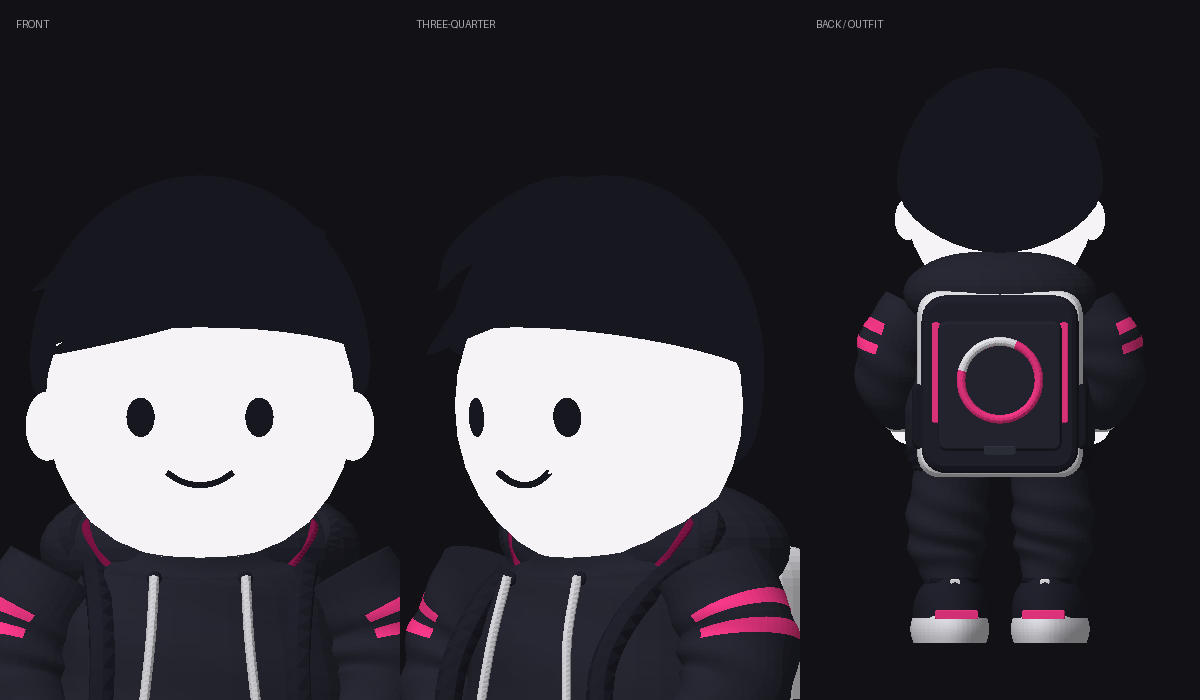
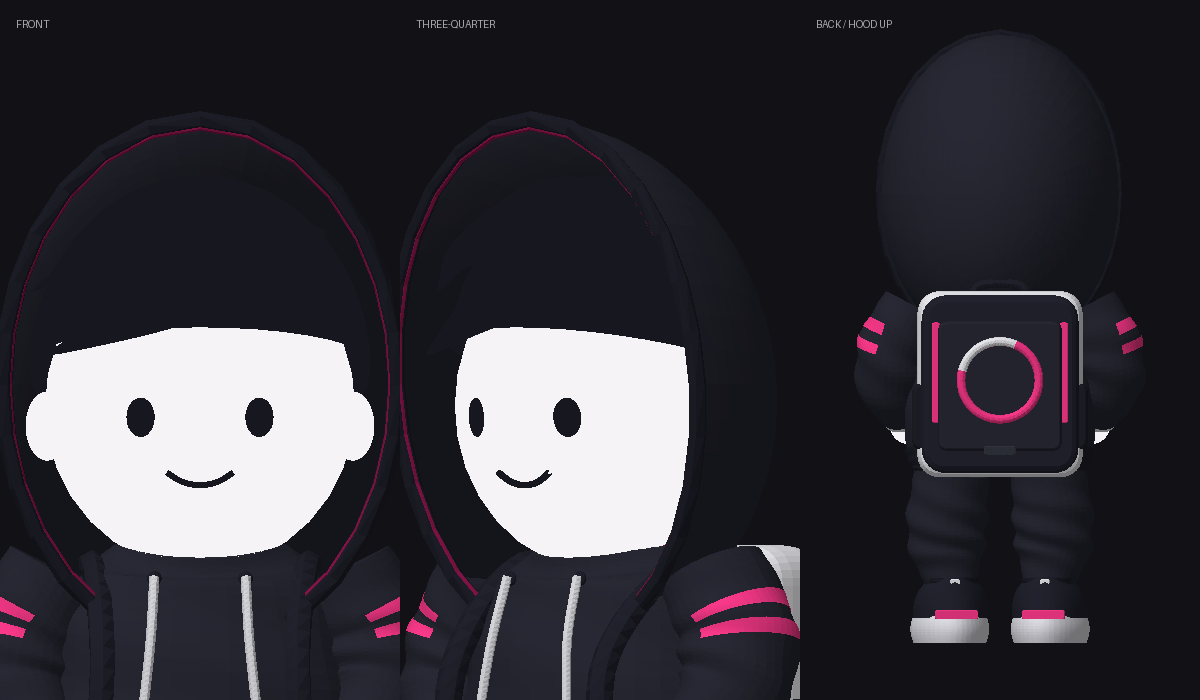
アバターにパーカーのフードを被せる

diff --git a/themes/shunta-furukawa-info/assets/js/explorer-avatar.js b/themes/shunta-furukawa-info/assets/js/explorer-avatar.js
@@ -21,15 +21,8 @@ export function createAvatar({onHeadBuilt}={}){
  // Dropped shoulders, a loose waist and gathered hem give the hoodie its own cut.
  const torso=cloth(body,[[0,.94,0],[0,1.10,.016],[0,1.35,0],[0,1.60,-.018],[0,1.79,-.025],[0,1.87,0]],[.46,.505,.49,.46,.365,.235],[.33,.36,.35,.315,.26,.18],'cloth',.010);
  cloth(body,[[0,.90,0],[0,.94,0],[0,1.02,.014]],[.445,.47,.50],[.31,.335,.35],'rib',.003);
- // The hood is behind the neck. A narrow lining fold is visible at the sides;
- // there is no inflated ring across the chin.
- oval(body,'cloth',0,1.85,-.235,1.02,.47,.73);
- oval(body,'lining',0,1.925,-.205,.84,.22,.56);
+ // The raised hood is built around the head below, with a clear front opening.
  oval(body,'skin',0,1.94,.025,.275,.29,.265);
- for(const side of [-1,1]){
-  line(body,[[side*.30,1.73,-.08],[side*.41,1.91,-.06],[side*.26,1.97,-.18]],.047,'cloth');
-  line(body,[[side*.29,1.79,.055],[side*.36,1.92,-.012],[side*.24,1.96,-.145]],.016,'lining');
- }
  // A pocket follows the front of the sweatshirt, with openings where the hands rest.
  const pocket=surfaceGeometry((u,v)=>{const x=(v-.5)*.66,y=1.055+u*.275;return new T.Vector3(x,y,.363+.025*Math.sin(Math.PI*u)-.065*(x/.4)**2);},10,20,new T.Vector3(0,0,1));part(body,pocket,'cloth');
  seam(body,[[-.32,1.065,.326],[-.26,1.23,.362],[-.21,1.315,.37]]);seam(body,[[.32,1.065,.326],[.26,1.23,.362],[.21,1.315,.37]]);
@@ -41,6 +34,23 @@ export function createAvatar({onHeadBuilt}={}){
  // A graphic mascot head shares the icon's white face and black side sweep.
  const headParts=createSimpleHead();
  const {head}=headParts;head.position.set(0,2.28,.005);head.scale.setScalar(.92);body.add(head);
+ // A continuous fabric shell wraps the crown and back; the opening leaves
+ // the graphic face and swept fringe exposed instead of covering them with a cap.
+ const hood=new T.Group();hood.name='raised-hood';head.add(hood);
+ function hoodPoint(u,v){
+  const a=v*Math.PI*2,t=u*Math.PI*.5,c=Math.cos(t);
+  return new T.Vector3(.68*Math.cos(a)*c,.10+.91*Math.sin(a)*c,.28-.93*Math.sin(t)+.08*Math.sin(a)*c);
+ }
+ const hoodShell=surfaceGeometry(hoodPoint,24,48,new T.Vector3(0,0,-1));
+ const hoodMaterial=m.cloth.clone();hoodMaterial.side=T.DoubleSide;
+ part(hood,hoodShell,hoodMaterial).name='hood-shell';
+ const rimPoints=Array.from({length:65},(_,i)=>hoodPoint(0,i/64));
+ line(hood,rimPoints,.032,'rib').name='hood-rim';
+ // A narrow inner fold carries the existing lining accent, while the outside
+ // remains the same dark fabric as the sweatshirt.
+ const innerPoints=rimPoints.map(p=>new T.Vector3(p.x*.974,.10+(p.y-.10)*.974,p.z+.005));
+ line(hood,innerPoints,.012,'lining').name='hood-lining';
+ headParts.hood=hood;
  // Shoulder straps and a sculpted backpack: its circle is legible from the chase camera.
  for(const side of [-1,1]){
   line(body,[[side*.31,1.14,-.42],[side*.37,1.63,-.42],[side*.34,1.80,-.04],[side*.31,1.50,.34],[side*.33,1.14,.38]],.044,'leather');

diff --git a/docs/avatar-world.md b/docs/avatar-world.md
@@ -54,3 +54,11 @@ The preview is an offline depth-buffer rendering of the actual model geometry,
 not an in-browser screenshot. Production Hugo build and the avatar geometry tests
 passed. The cloud browser could not initialize the site's 3D renderer, so final
 WebGL lighting and iPhone Safari appearance have not been visually verified here.
+
+### Raised hood
+The hoodie is worn up around the simple head. A continuous dark fabric shell
+wraps the crown and back, with a narrow lining accent around the front opening.
+The old folded hood behind the neck is removed. Front and three-quarter eye
+sightlines, movement bounds and existing geometry checks still pass. The preview
+above now shows the raised hood. Browser WebGL / iPhone visual verification
+remains unavailable in this environment.
